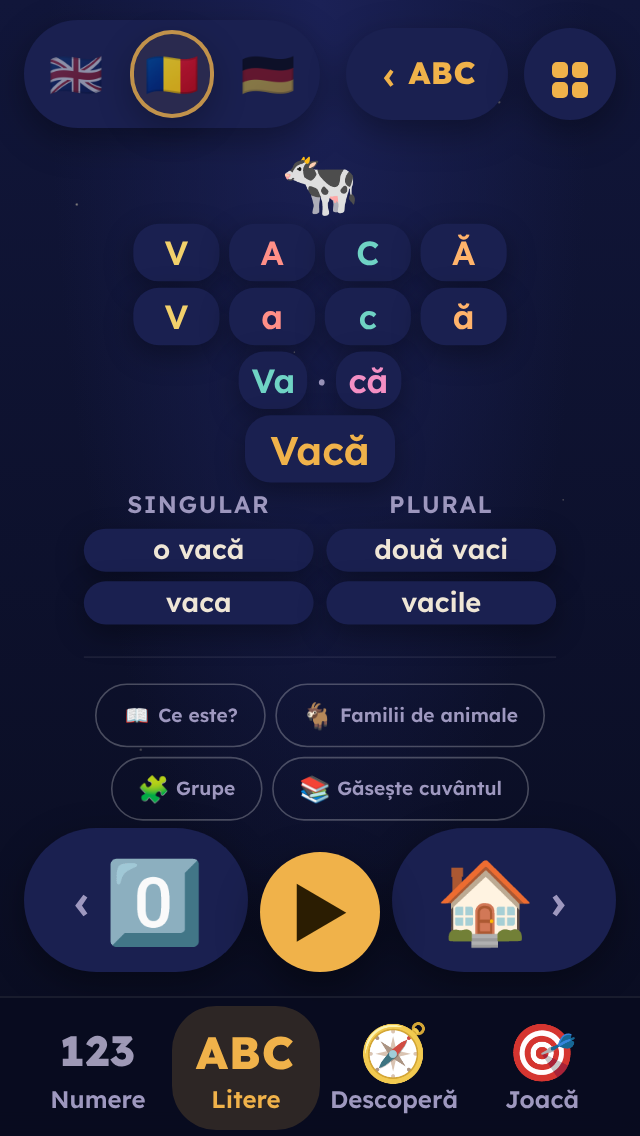
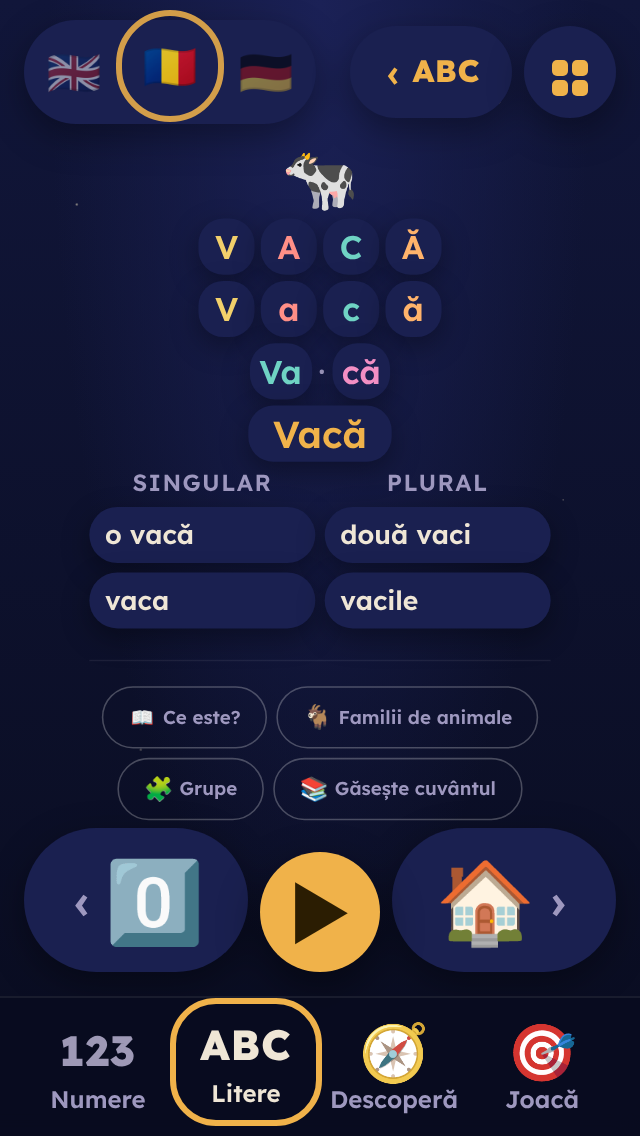
Finish the open items: Read sizes itself with CSS + the shared APP.fitText (no own maths), shows word gaps in phrases and scales tile height; RO compound words get plurals (periuțe/coșuri/ceasuri de…, pui de găină) and the plural rule checks the head word; every concept now has a word in every langu
Claude-Session: https://claude.ai/code/session_01Hyx1q6Z5Q5TBzhN2jqFLjv

diff --git a/abc/core/shell.js b/abc/core/shell.js
@@ -7,7 +7,7 @@ const TILES = Tiles.list();
 const TILE = Object.fromEntries(TILES.map(t => [t.id, t]));
 const PROFILES = Tiles.profiles();
 const PLAY_SECTION = CFG.sections.find(s => s.play).id;
-const GAP = 200, CELEBRATE = { spark: [18, 6], burst: [60, 10] };
+const GAP = 200, CELEBRATE = { spark: [18, 6], burst: [60, 10] }, SWIPE = 50, SEARCH_ROWS = 40, FOCUS_DELAY = 50;
 let seqTok = 0;
 
 for (const v of Object.values(ABC.views)) if (!$(v.el)) {
@@ -32,7 +32,12 @@ const APP = {
   t: (tpl, vars) => I18N.t(tpl, vars, ABC.langs[lang].bcp47),
   icon: k => `<i class="ic" aria-hidden="true">${CFG.icons[k] != null ? esc(CFG.icons[k]) : ABC.art[k] ? `<svg class="art" viewBox="0 0 32 32">${ABC.art[k]}</svg>` : ''}</i>`,
   exclaim: name => APP.t(APP.ui().exclaim, { name }),
-  fitText(el) { let k = 1; el.style.setProperty('--fit', k); for (let i = 0; i < 4 && el.scrollWidth > el.clientWidth + 1; i++) { k *= el.clientWidth / el.scrollWidth; el.style.setProperty('--fit', k.toFixed(3)); } },
+  fitText(el, inner) {
+    const ratio = e => e.scrollWidth > e.clientWidth + 1 ? e.clientWidth / e.scrollWidth : 1;
+    const worst = () => Math.min(ratio(el), ...(inner ? [...el.querySelectorAll(inner)].map(ratio) : []));
+    let k = 1; el.style.setProperty('--fit', k);
+    for (let i = 0; i < 6; i++) { const r = worst(); if (r >= 1) break; k *= r; el.style.setProperty('--fit', k.toFixed(3)); }
+  },
   mt(key, vars) {
     const m = tileOf().module, get = code => key.split('.').reduce((o, k) => o && o[k], m.strings[code]);
     return I18N.t(get(lang) ?? get(CFG.baseLanguage), vars, ABC.langs[lang].bcp47);
@@ -151,12 +156,12 @@ function openTile(id, play, quiet) {
 onTapIn('hub', '.hsearch', openSearch);
 onTapIn('hub', '.ht', b => openTile(b.dataset.id, b.dataset.play === '1'));
 function leaveView() { APP.stop(); if (view() && view().leave) view().leave(); }
-function goHub() { leaveView(); section = sectionNow(); atHub = true; store.set('sec', section); store.set('athub', true); sfx.pop(); render(); speak(APP.exclaim(APP.ui().sections[section]), 80); }
+function goHub() { leaveView(); section = sectionNow(); atHub = true; store.set('sec', section); store.set('athub', true); sfx.pop(); render(); speak(APP.exclaim(APP.ui().sections[section]), PAUSE.tap); }
 function setSection(id) {
   if (id === sectionNow()) { if (!atHub) goHub(); return; }
   leaveView();
   section = id; store.set('sec', id); atHub = true; store.set('athub', true);
-  sfx.pop(); render(); speak(APP.exclaim(APP.ui().sections[id]), 80);
+  sfx.pop(); render(); speak(APP.exclaim(APP.ui().sections[id]), PAUSE.tap);
 }
 
 const VIEWS = Object.values(ABC.views);
@@ -202,7 +207,7 @@ function setLang(code) {
   if (v0 && v0.keepScroll && view() === v0) $(v0.el).scrollTop = scroll;
   announce();
 }
-function announce() { const name = APP.L().name, line = !atHub && view().line && view().line(); speak(line ? APP.t(APP.ui().then, { a: name, b: line }) : APP.exclaim(name), 120); }
+function announce() { const name = APP.L().name, line = !atHub && view().line && view().line(); speak(line ? APP.t(APP.ui().then, { a: name, b: line }) : APP.exclaim(name), PAUSE.line); }
 
 let infoId = null;
 const infoFor = c => c && APP.L().info[c] ? APP.L().info[c] : null;
@@ -210,7 +215,7 @@ function openInfo(c) {
   const I = infoFor(c); if (!I) return;
   infoId = c; $('infotitle').textContent = I.title;
   $('infolist').innerHTML = I.lines.map(([e, t], i) => `<button class="card inf" data-i="${i}"><span class="ie">${e}</span><span>${esc(t)}</span></button>`).join('');
-  $('info').hidden = false; sfx.pop(); speak(I.title, 100);
+  $('info').hidden = false; sfx.pop(); speak(I.title, PAUSE.tap);
 }
 function closeInfo() { if (!$('info').hidden) APP.stop(); $('info').hidden = true; }
 onTapIn(document, '.link[data-t]', b => {
@@ -262,7 +267,7 @@ function openIndex() {
 function syncAZ() {
   const g = $('ixgrid'), hs = g.querySelectorAll('.ixh'); if (!hs.length) return;
   let cur = hs[0];
-  for (const h of hs) { if (h.offsetTop - g.scrollTop <= 28) cur = h; else break; }
+  for (const h of hs) { if (h.offsetTop - g.scrollTop <= $('ixaz').offsetWidth) cur = h; else break; }
   if (g.scrollTop + g.clientHeight >= g.scrollHeight - 2) cur = hs[hs.length - 1];
   const u = cur.id.slice(4);
   $('ixaz').querySelectorAll('.az').forEach(a => { const on = a.dataset.u === u; a.classList.toggle('on', on); if (on) a.setAttribute('aria-current', 'true'); else a.removeAttribute('aria-current'); });
@@ -309,7 +314,7 @@ function runSearch() {
     .sort((a, b) => b.s - a.s || col.compare(a.x.names[0][1], b.x.names[0][1]));
   const groups = new Map();
   for (const h of hits) { const k = h.x.it.concept || fold(h.x.it.name); if (groups.has(k)) groups.get(k).push(h.x); else groups.set(k, [h.x]); }
-  const rows = [...groups.values()].slice(0, 40);
+  const rows = [...groups.values()].slice(0, SEARCH_ROWS);
   $('smeta').textContent = rows.length ? APP.t(U.search.results, { n: rows.length }) : U.search.none;
   const mark = n => { const f = fold(n), i = f.indexOf(q); return i < 0 || f.length !== n.replace(/\//g, '').length ? esc(n) : esc(n.slice(0, i)) + '<mark>' + esc(n.slice(i, i + q.length)) + '</mark>' + esc(n.slice(i + q.length)); };
   $('sres').innerHTML = rows.map(([x, ...more]) => {
@@ -321,7 +326,7 @@ function runSearch() {
 }
 function openSearch() {
   const U = APP.ui(); $('sq').placeholder = U.search.placeholder; $('sq').value = '';
-  $('search').hidden = false; runSearch(); sfx.pop(); setTimeout(() => $('sq').focus(), 50);
+  $('search').hidden = false; runSearch(); sfx.pop(); setTimeout(() => $('sq').focus(), FOCUS_DELAY);
 }
 const closeSearch = () => { $('search').hidden = true; $('sq').blur(); };
 $('sq').addEventListener('input', runSearch);
@@ -339,7 +344,7 @@ $('ages').innerHTML = PROFILES.map(p => { const [a, b] = CFG.profiles[p].ages;
 function setProfile(p) {
   if (!CFG.profiles[p]) return;
   profile = p; store.set('profile', p); atHub = true; store.set('athub', true);
-  sfx.pop(); render(); speak(APP.exclaim(profileName(p)), 80);
+  sfx.pop(); render(); speak(APP.exclaim(profileName(p)), PAUSE.tap);
 }
 
 $('flags').innerHTML = LANGS.map(c => `<button class="seg flag" data-lang="${c}" aria-label="${esc(ABC.langs[c].name)}">${ABC.langs[c].flag}<i class="nv" hidden>${esc(CFG.icons.mute)}</i></button>`).join('');
@@ -368,7 +373,7 @@ $('stage').addEventListener('pointerup', e => {
   const v = view(), start = sx; sx = null;
   if (start == null || !v || !v.swipe) return;
   const dx = e.clientX - start;
-  if (Math.abs(dx) > 50) v.step((dx < 0) !== (APP.L().dir === 'rtl') ? 1 : -1);
+  if (Math.abs(dx) > SWIPE) v.step((dx < 0) !== (APP.L().dir === 'rtl') ? 1 : -1);
 });
 addEventListener('keydown', e => {
   if (e.metaKey || e.ctrlKey || e.altKey || e.isComposing) return;

diff --git a/abc/core/views/read.js b/abc/core/views/read.js
@@ -3,36 +3,29 @@
   function render(sayIt) {
     const L = APP.L(), loc = L.bcp47, A = APP.alphabet(), e = cur(), syl = e.syl, word = e.w, forms = e.forms, pic = e.pic, U = APP.ui();
     const colorOf = u => (u && A.color(u.id)) || 'var(--text)';
-    const parts = I18N.splitUnits(word, A.units, loc).filter(p => /[\p{L}\p{M}]/u.test(p.text));
+    const parts = I18N.splitUnits(word, A.units, loc).filter(p => /[\p{L}\p{M}\s]/u.test(p.text)).filter((p, i, a) => !/\s/.test(p.text) || (i && !/\s/.test(a[i - 1].text)));
+    const gap = '<span class="rgap"></span>';
     const tile = (txt, say, cls = '', color = '') => `<button class="card rt ${cls}" data-say="${esc(say)}"${color ? ` style="color:${color}"` : ''}>${esc(txt)}</button>`;
-    const avail = ($('read').clientWidth || innerWidth) / (+getComputedStyle($('read')).getPropertyValue('--read-split') || 1), nl = parts.length, gap = nl > 8 ? 3 : 6;
-    const tw = Math.min(54, Math.floor((avail - (nl - 1) * gap) / nl));
-    const lstyle = `--tw:${tw}px;--tf:${Math.min(32, Math.round(tw * 0.62))}px;gap:${gap}px`;
     const say = p => p.unit ? A.name(p.unit) : I18N.upper(p.text, null, loc);
-    const upper = parts.map(p => tile(I18N.upper(p.text, p.unit, loc), say(p), 'u', colorOf(p.unit))).join('');
-    const lower = parts.map((p, i) => tile(i === 0 ? I18N.upper(p.text, p.unit, loc) : p.text, say(p), 'l', colorOf(p.unit))).join('');
+    const upper = parts.map(p => /\s/.test(p.text) ? gap : tile(I18N.upper(p.text, p.unit, loc), say(p), 'u', colorOf(p.unit))).join('');
+    const lower = parts.map((p, i) => /\s/.test(p.text) ? gap : tile(i === 0 ? I18N.upper(p.text, p.unit, loc) : p.text, say(p), 'l', colorOf(p.unit))).join('');
     const shown = parts.length ? I18N.upper(parts[0].text, parts[0].unit, loc) + word.slice(parts[0].text.length) : word;
-    const cells = forms ? [...(forms.sg || []), ...(forms.pl || [])] : [];
-    const longest = Math.max(8, ...cells.map(x => x.length));
-    const chipW = (avail - 8) / 2, em = longest * 0.66;
-    const side = Math.floor((chipW - 2 * 26 - 30) / em), tall = side < 15;
-    const cf = Math.max(11, Math.min(20, tall ? Math.floor((chipW - 22) / em) : side));
-    const ns = syl.length, sylFont = Math.max(16, Math.min(32, Math.floor((avail - ns * 20 - (ns - 1) * 22) / Math.max(1, word.length) * 1.55)));
     const syls = syl.map((sy, i) => (i ? `<span class="rsep">${esc(ABC.config.icons.sep)}</span>` : '') + tile(i === 0 ? I18N.capFirst(sy, loc) : sy, sy, 's', CONTENT.palette(i * 3 + 4))).join('');
     $('read').innerHTML =
       `<div class="rcol"><div id="rpic" data-say="${esc(word)}">${pic}</div>` +
-      `<div class="rrow let" id="rU" style="${lstyle}">${upper}</div>` +
-      `<div class="rrow let" id="rL" style="${lstyle}">${lower}</div>` +
-      (syl.length > 1 ? `<div class="rrow syl" id="rS" style="--sf:${sylFont}px">${syls}</div>` : '') +
+      `<div class="rrow let" id="rU">${upper}</div>` +
+      `<div class="rrow let" id="rL">${lower}</div>` +
+      (syl.length > 1 ? `<div class="rrow syl" id="rS">${syls}</div>` : '') +
       `<div class="rrow" id="rW">${tile(shown, word, 'word')}</div></div><div class="rcol">` +
-      (forms ? `<div id="rC" class="${tall ? 'tall' : ''}" style="--cf:${cf}px"><div class="label caps rh">${esc(U.sgpl[0])}</div><div class="label caps rh">${esc(U.sgpl[1])}</div>` +
+      (forms ? `<div id="rC"><div class="label caps rh">${esc(U.sgpl[0])}</div><div class="label caps rh">${esc(U.sgpl[1])}</div>` +
         [0, 1].map(r => [['sg', 1], ['pl', 2]].map(([k, n], c) => forms[k]
           ? `<button class="card rc" data-say="${esc(forms[k][r])}"><span class="rce">${pic.repeat(n)}</span><span>${esc(forms[k][r])}</span></button>`
           : `<div class="rc none">${r === 0 ? esc(APP.t(U.noneLine, { none: U.none[c] })) : ''}</div>`).join('')).join('') + `</div>` : '') +
       `<div class="links"${APP.links(e) ? '' : ' hidden'}>${APP.links(e)}</div></div>`;
+    ['rU', 'rL', 'rS', 'rW', 'rC'].forEach(id => $(id) && APP.fitText($(id), '.rt, .rc'));
     fit();
     APP.shown();
-    if (sayIt) speak(word, 150);
+    if (sayIt) speak(word, PAUSE.line);
   }
   const fit = () => APP.fit($('read'), 'tight');
   onTapIn('read', '[data-say]', el => APP.sequence('read', [{ light: el.classList.contains('rt') || el.classList.contains('rc') ? el : null, say: el.dataset.say, pop: true }]));

diff --git a/abc.html b/abc.html
@@ -37,7 +37,7 @@
   --cnum-w:96px; --cdig:54px; --cword:var(--fs-m); --citems:34px; --citems-min:60px; --hand-w:84px; --hand-h:96px; --row:5;
   --tap:44px; --badge:28px; --tab-w:120px; --icon-m:28px; --learn-gap:1.6vh; --dot:40px; --swatch:min(30vh,52vw); --rainbow:min(44vh,80vw);
   --word-fs:min(6vh,8vw); --pics-fs:min(7vh,9vw); --ask-fs:min(5.5vh,7.5vw); --choice-gap:min(4vw,4vh); --bub-c:var(--card2); --bub-2:min(28vh,40vw); --bub-3:min(25vh,28vw); --bub-4:min(21vh,21vw); --n4-display:flex;
-  --rt-w:54px; --rt-min:34px; --rt-h-tight:36px; --rt-fs-tight:21px; --rpic-tight:7vh; --syl-pad:min(16px,2.4vw); --ix-w:76px; --ix-h:84px; --srp:56px;
+  --rt-w:1.7em; --rt-h-tight:36px; --rt-fs-tight:21px; --rpic-tight:7vh; --syl-pad:.3em; --rt-gap:.2em; --word-gap:.5em; --ix-w:76px; --ix-h:84px; --srp:56px;
   --shadow-text:0 6px 0 var(--shade); --shadow-inset:inset 0 -8px 0 rgba(0,0,0,.12); --shadow-drop:0 3px 0 rgba(0,0,0,.3);
   --inf-fs:var(--fs-m); --inf-pad:12px 16px; --inf-pic:36px; --play-gap:clamp(16px, 7vh, 72px);
 }
@@ -196,23 +196,19 @@ body.lownav #stage{padding-bottom:calc(var(--bot) + var(--low-h))} #hub{display:
 #read{display:flex;flex-direction:var(--read-dir);align-items:center;justify-content:center;width:100%;height:100%;gap:var(--read-gap)}
 .rcol{display:flex;flex-direction:column;align-items:center;justify-content:center;gap:var(--read-gap);flex:1 1 0;min-width:0;width:100%}
 #read.tight{--rt-h:var(--rt-h-tight);--rt-fs:var(--rt-fs-tight);--rc-h:var(--rt-h-tight);--rpic:var(--rpic-tight);--read-gap:var(--sp-1)} #rpic{font-size:var(--rpic);line-height:1.1;cursor:pointer}
-.rrow{display:flex;flex-wrap:nowrap;justify-content:center;gap:var(--sp-2);max-width:100%}
-.rt{flex:0 1 var(--rt-w);min-width:var(--rt-min);height:var(--rt-h);border-radius:var(--r-sm);font-size:var(--rt-fs);font-weight:600;
+.rrow{display:flex;flex-wrap:nowrap;justify-content:center;gap:var(--rt-gap);max-width:100%;font-size:calc(var(--rt-fs) * var(--fit,1))}
+.rt{flex:0 0 auto;min-width:var(--rt-w);padding:0 var(--syl-pad);height:calc(var(--rt-h) * var(--fit,1));border-radius:var(--r-sm);font-size:1em;font-weight:600;white-space:nowrap;
   box-shadow:var(--shadow);,box-shadow .15s}
-.rrow.let .rt{flex:0 0 var(--tw,var(--rt-w));width:var(--tw,var(--rt-w));min-width:0;font-size:min(var(--tf,var(--rt-fs)),var(--rt-fs))}
-.rrow.syl{flex-wrap:wrap;row-gap:var(--sp-1)}
-.rrow.syl .rt{flex:0 1 auto;min-width:0;padding:0 var(--syl-pad);font-size:min(var(--sf,var(--rt-fs)),var(--rt-fs))}
-.rt.word{flex:0 0 auto;height:calc(var(--rt-h) + var(--sp-2));padding:0 var(--sp-4);font-size:calc(var(--rt-fs) + var(--sp-1));color:var(--amber)}
+.rt.word{padding:0 var(--sp-4);font-size:1.15em;color:var(--amber)}
+.rgap{flex:0 0 var(--word-gap)}
 .rsep{align-self:center;color:var(--muted);font-size:var(--rce)}
-#rC{display:grid;grid-template-columns:1fr 1fr;gap:var(--sp-2);width:100%}
+#rC{display:grid;grid-template-columns:repeat(2,minmax(0,1fr));gap:var(--sp-2);width:100%;font-size:calc(var(--rc-fs) * var(--fit,1))}
 .rh{text-align:center}
 .rc{display:flex;align-items:center;justify-content:flex-start;gap:var(--sp-2);min-width:0;overflow:hidden;height:var(--rc-h);padding:0 var(--sp-4) 0 var(--sp-3);
-  border-radius:var(--r-pill);font-size:min(var(--cf,var(--rc-fs)),var(--rc-fs));font-weight:600;white-space:nowrap;
+  border-radius:var(--r-pill);font-size:1em;font-weight:600;white-space:nowrap;
   box-shadow:var(--shadow);,box-shadow .15s}
 .rce{font-size:var(--rce);letter-spacing:-2px}
 #read.tight .rce{display:none}
-#rC.tall .rc{flex-direction:column;justify-content:center;height:auto;padding:var(--sp-1) var(--sp-2);gap:0;border-radius:var(--r-sm);white-space:normal;text-align:center;line-height:1.1}
-#rC.tall .rce{font-size:var(--fs-m)}
 .rc.none{background:transparent;box-shadow:inset 0 0 0 2px var(--line);color:var(--muted);font-size:var(--fs-xs);justify-content:center;cursor:default;white-space:normal;text-align:center;line-height:1.1;padding:0 var(--sp-2)}
 #act{position:fixed;left:0;right:0;margin:0 auto;bottom:calc(var(--bot) + var(--nav-gap));z-index:var(--z-float)}
 

diff --git a/abc/core/views/play.js b/abc/core/views/play.js
@@ -3,7 +3,8 @@
   const game = () => ABC.games[APP.tile().game.type];
   const wk = it => `${APP.tile().id}:${it.id}`;
   const weights = store.get('w', {});
-  const nChoices = () => APP.streak >= 8 ? 4 : APP.streak >= 3 ? 3 : 2;
+  const RULES = { levels: [[8, 4], [3, 3], [0, 2]], maxWeight: 5, cooldown: 700, bigEvery: 10, next: 1200, nextBig: 2400, settle: 350 };
+  const nChoices = () => RULES.levels.find(([s]) => APP.streak >= s)[1];
   const look = it => it.bubbleArt || it.bubble || it.bubbleColor;
   const pool = () => game().pool(APP.gameItems(), APP.streak);
   const fits = (it, t, os) => (!t.among || it.among === t.among) && !os.some(o => o === it || (o.sound && o.sound === it.sound) || look(o) === look(it));
@@ -45,30 +46,30 @@
     });
     $('plinks').innerHTML = APP.links(target); $('plinks').hidden = !$('plinks').innerHTML;
     APP.fit($('play'));
-    speak(askLine(), 250);
+    speak(askLine(), PAUSE.ask);
   }
   function choose(it, el) {
     if (locked) return;
-    if (it !== target && el) { const now = Date.now(); if (+(el.dataset.cool || 0) > now) return; el.dataset.cool = now + 700; }
+    if (it !== target && el) { const now = Date.now(); if (+(el.dataset.cool || 0) > now) return; el.dataset.cool = now + RULES.cooldown; }
     const U = APP.ui();
     if (it === target) {
       locked = true; APP.streak++; APP.addStar();
       weights[wk(it)] = Math.max(0, (weights[wk(it)] || 0) - 1); store.set('w', weights);
       if (el) el.classList.add('right');
-      const big = APP.stars % 10 === 0;
+      const big = APP.stars % RULES.bigEvery === 0;
       let said;
       if (big) {
         APP.celebrate(el, true); sfx.fanfare();
-        said = speak(APP.t(U.wow, { n: APP.stars }), 700);
-      } else { APP.celebrate(el, true); said = speak(APP.t(U.cheer, { cheer: U.cheers[Math.random() * U.cheers.length | 0], name: target.name }), 400); }
+        said = speak(APP.t(U.wow, { n: APP.stars }), PAUSE.praise);
+      } else { APP.celebrate(el, true); said = speak(APP.t(U.cheer, { cheer: U.cheers[Math.random() * U.cheers.length | 0], name: target.name }), PAUSE.answer); }
       const tok = ++roundTok;
-      Promise.all([said, wait(big ? 2400 : 1200)]).then(() => wait(350)).then(() => { if (tok === roundTok && APP.screen() === 'play' && locked) newRound(); });
+      Promise.all([said, wait(big ? RULES.nextBig : RULES.next)]).then(() => wait(RULES.settle)).then(() => { if (tok === roundTok && APP.screen() === 'play' && locked) newRound(); });
     } else {
       APP.streak = 0;
-      if (!round.missed) { round.missed = true; weights[wk(target)] = Math.min(5, (weights[wk(target)] || 0) + 1); store.set('w', weights); }
+      if (!round.missed) { round.missed = true; weights[wk(target)] = Math.min(RULES.maxWeight, (weights[wk(target)] || 0) + 1); store.set('w', weights); }
       sfx.wrong();
       if (el) { el.classList.remove('wrong'); void el.offsetWidth; el.classList.add('wrong'); }
-      speak(APP.t(U.wrong, { thats: APP.t(U.thats, it.thats), ask: askLine() }), 350);
+      speak(APP.t(U.wrong, { thats: APP.t(U.thats, it.thats), ask: askLine() }), PAUSE.answer);
     }
   }
   onTap('ask', () => { if (target) speak(askLine()); });

diff --git a/abc/lang/ro/words.js b/abc/lang/ro/words.js
@@ -23,7 +23,7 @@ w('elephant', { w: 'e/le/fant', def: 'elefantul', pl: 'elefanți', g: 'm', plDef
 w('horse', { w: 'cal', def: 'calul', pl: 'cai', g: 'm', plDef: 'caii' });
 w('dolphin', { w: 'del/fin', def: 'delfinul', pl: 'delfini', g: 'm', plDef: 'delfinii' });
 w('butterfly', { w: 'flu/tu/re', def: 'fluturele', pl: 'fluturi', g: 'm', plDef: 'fluturii' });
-w('bin', { w: 'coș de gu/noi', def: 'coșul de gunoi', g: 'n' });
+w('bin', { w: 'coș de gu/noi', def: 'coșul de gunoi', pl: 'coșuri de gunoi', g: 'n', plDef: 'coșurile de gunoi' });
 w('hippo', { w: 'hi/po/po/tam', def: 'hipopotamul', pl: 'hipopotami', g: 'm', plDef: 'hipopotamii' });
 w('ice-cream', { w: 'în/ghe/ța/tă', def: 'înghețata', pl: 'înghețate', g: 'f', plDef: 'înghețatele' });
 w('juice', { w: 'suc', def: 'sucul', pl: 'sucuri', g: 'n', plDef: 'sucurile' });
@@ -179,7 +179,7 @@ w('sunglasses', { w: 'o/che/lari de soa/re', plOnly: true, plDef: 'ochelarii de 
 w('boots', { w: 'ciz/mă', def: 'cizma', pl: 'cizme', g: 'f', plDef: 'cizmele', also: 'ghete, bocanci' });
 w('gloves', { w: 'mă/nuși', plOnly: true, plDef: 'mănușile' });
 w('scarf', { w: 'fu/lar', def: 'fularul', pl: 'fulare', g: 'n', plDef: 'fularele' });
-w('chicken-chick', { w: 'pui de gă/i/nă', def: 'puiul de găină', g: 'm', ex: false });
+w('chicken-chick', { w: 'pui de gă/i/nă', def: 'puiul de găină', pl: 'pui de găină', g: 'm', plDef: 'puii de găină', ex: false });
 w('circle', { w: 'cerc', def: 'cercul', pl: 'cercuri', g: 'n', plDef: 'cercurile' });
 w('square', { w: 'pă/trat', def: 'pătratul', pl: 'pătrate', g: 'n', plDef: 'pătratele' });
 w('triangle', { w: 'tri/un/ghi', def: 'triunghiul', pl: 'triunghiuri', g: 'n', plDef: 'triunghiurile' });
@@ -225,14 +225,15 @@ w('uranus', { w: 'U/ra/nus', ex: false });
 w('neptune', { w: 'Nep/tun', ex: false });
 w('germ', { w: 'mi/crob', def: 'microbul', pl: 'microbi', g: 'm', plDef: 'microbii' });
 w('soap', { w: 'să/pun', def: 'săpunul', pl: 'săpunuri', g: 'n', plDef: 'săpunurile' });
-w('toothbrush', { w: 'pe/ri/u/ță de dinți', def: 'periuța de dinți', g: 'f' });
+w('toothbrush', { w: 'pe/ri/u/ță de dinți', def: 'periuța de dinți', pl: 'periuțe de dinți', g: 'f', plDef: 'periuțele de dinți' });
 w('water', { w: 'a/pă', def: 'apa', g: 'f', mass: true });
 w('blood', { w: 'sân/ge', def: 'sângele', g: 'n', mass: true });
 w('fever', { w: 'fe/bră', def: 'febra', g: 'f', mass: true });
 w('vaccine', { w: 'vac/cin', def: 'vaccinul', pl: 'vaccinuri', g: 'n', plDef: 'vaccinurile' });
 w('bandage', { w: 'plas/tu/re', def: 'plasturele', pl: 'plasturi', g: 'm', plDef: 'plasturii' });
 w('van', { w: 'du/bă', def: 'duba', pl: 'dube', g: 'f', plDef: 'dubele' });
-w('watch', { w: 'ceas de mâ/nă', def: 'ceasul de mână', g: 'n' });
+w('watch', { w: 'ceas de mâ/nă', def: 'ceasul de mână', pl: 'ceasuri de mână', g: 'n', plDef: 'ceasurile de mână' });
 w('up', { w: 'sus' });
 w('zero', { w: 'ze/ro', def: 'zeroul', pl: 'zerouri', g: 'n', plDef: 'zerourile' });
+w('ufo', { w: 'OZN', ex: false });
 }

diff --git a/abc/modules/colors/module.js b/abc/modules/colors/module.js
@@ -1,14 +1,16 @@
 {
+const HEX = { red: '#e53935', orange: '#fb8c00', yellow: '#fdd835', green: '#43a047', blue: '#1e88e5', indigo: '#3949ab', purple: '#8e24aa',
+  pink: '#f48fb1', brown: '#8d6e63', black: '#111111', white: '#f5f5f5' };
 const COLOR_DATA = [
-  { id: 'red', hex: '#e53935', things: 'apple strawberry tomato cherry' }, { id: 'blue', hex: '#1e88e5', things: 'whale dolphin butterfly jeans' },
-  { id: 'yellow', hex: '#fdd835', things: 'banana lemon chick sun' }, { id: 'green', hex: '#43a047', things: 'cucumber frog leaf grass' },
-  { id: 'orange', concept: 'orange-colour', hex: '#fb8c00', things: 'orange pumpkin fox' }, { id: 'purple', hex: '#8e24aa', things: 'grape umbrella' },
-  { id: 'pink', hex: '#f48fb1', things: 'pig flower donut' }, { id: 'brown', hex: '#8d6e63', things: 'bear horse teddy hedgehog' },
-  { id: 'black', hex: '#111111', things: 'hat penguin' }, { id: 'white', hex: '#f5f5f5', things: 'sheep cloud egg milk' },
+  { id: 'red', things: 'apple strawberry tomato cherry' }, { id: 'blue', things: 'whale dolphin butterfly jeans' },
+  { id: 'yellow', things: 'banana lemon chick sun' }, { id: 'green', things: 'cucumber frog leaf grass' },
+  { id: 'orange', concept: 'orange-colour', things: 'orange pumpkin fox' }, { id: 'purple', things: 'grape umbrella' },
+  { id: 'pink', things: 'pig flower donut' }, { id: 'brown', things: 'bear horse teddy hedgehog' },
+  { id: 'black', things: 'hat penguin' }, { id: 'white', things: 'sheep cloud egg milk' },
   { id: 'rainbow', concept: 'rainbow', things: 'sun cloud umbrella', noPlay: true, bands: true }
-];
-const RAINBOW_HEX = ['#e53935', '#fb8c00', '#fdd835', '#43a047', '#1e88e5', '#3949ab', '#8e24aa'];
-const RAINBOW_DOT = 'conic-gradient(#e53935,#fb8c00,#fdd835,#43a047,#1e88e5,#3949ab,#8e24aa,#e53935)';
+].map(c => Object.assign({ hex: HEX[c.id] }, c));
+const RAINBOW_HEX = ['red', 'orange', 'yellow', 'green', 'blue', 'indigo', 'purple'].map(k => HEX[k]);
+const RAINBOW_DOT = `conic-gradient(${[...RAINBOW_HEX, RAINBOW_HEX[0]].join(',')})`;
 function rainbowSVG() {
   return `<svg class="rbsvg" viewBox="0 0 200 104">${RAINBOW_HEX.map((c, i) => { const r = 92 - i * 10;
     return `<path class="part rbb" data-part="${i}" d="M ${100 - r} 100 A ${r} ${r} 0 0 1 ${100 + r} 100" stroke="${c}"/>`; }).join('')}</svg>`;

diff --git a/abc/art.js b/abc/art.js
@@ -15,3 +15,18 @@ ART('jupiter', '<circle cx="16" cy="16" r="14.5" fill="#d8a46c" stroke="#1d2150"
 ART('saturn', '<ellipse cx="16" cy="16" rx="15.5" ry="4.6" fill="none" stroke="#1d2150" stroke-width="3.4"/><ellipse cx="16" cy="16" rx="15.5" ry="4.6" fill="none" stroke="#c9b07a" stroke-width="2"/><circle cx="16" cy="16" r="9" fill="#e3c27a" stroke="#1d2150" stroke-width="1.4"/><path d="M7.4 13.5h17.2M7 17.5h18" stroke="#cfa95f" stroke-width="1.4"/><path d="M1 16.4a15.5 4.6 0 0 0 30 0" fill="none" stroke="#c9b07a" stroke-width="2"/>');
 ART('uranus', '<circle cx="16" cy="16" r="11" fill="#8fd3df" stroke="#1d2150" stroke-width="1.4"/><ellipse cx="16" cy="16" rx="3" ry="14" fill="none" stroke="#bfeaf0" stroke-width="1.4"/>');
 ART('neptune', '<circle cx="16" cy="16" r="11" fill="#4f6fd8" stroke="#1d2150" stroke-width="1.4"/><path d="M7 12q9-2 18 0M6 19q10 2 20 0" stroke="#3c58b5" stroke-width="1.6" fill="none"/><ellipse cx="12" cy="15" rx="2.4" ry="1.4" fill="#2c428e"/>');
+{
+  const SKIN = '#f8d2ae', SHADE = '#e7b088', NAIL = '#fde7d6', ORDER = ['index', 'middle', 'ring', 'little', 'thumb'];
+  const FING = { little: { x: 13, w: 13, top: 34 }, ring: { x: 28, w: 14, top: 18 }, middle: { x: 44, w: 14, top: 10 }, index: { x: 60, w: 14, top: 18 } };
+  for (let raised = 0; raised <= 5; raised++) {
+    const up = new Set(ORDER.slice(0, raised)); let g = '';
+    for (const [name, f] of Object.entries(FING)) g += up.has(name)
+      ? `<rect x="${f.x}" y="${f.top}" width="${f.w}" height="${80 - f.top}" rx="${f.w / 2}" fill="${SKIN}"/><ellipse cx="${f.x + f.w / 2}" cy="${f.top + 7}" rx="${f.w * 0.3}" ry="4.5" fill="${NAIL}"/>`
+      : `<rect x="${f.x}" y="48" width="${f.w}" height="24" rx="${f.w / 2}" fill="${SHADE}"/>`;
+    g += `<rect x="10" y="54" width="68" height="58" rx="22" fill="${SKIN}"/>`;
+    g += up.has('thumb')
+      ? `<rect x="68" y="50" width="16" height="44" rx="8" fill="${SKIN}" transform="rotate(32 76 92)"/><ellipse cx="76" cy="57" rx="4.5" ry="4" fill="${NAIL}" transform="rotate(32 76 92)"/>`
+      : `<rect x="34" y="76" width="42" height="15" rx="7.5" fill="${SHADE}"/>`;
+    ART('hand-' + raised, `<g transform="scale(0.2667) translate(7 0)">${g}</g>`);
+  }
+}

diff --git a/abc/core/views/count.js b/abc/core/views/count.js
@@ -1,20 +1,7 @@
 (function () {
   let style = store.get('cstyle', 'obj');
   const BEAT = 700;
-  const SKIN = '#f8d2ae', SHADE = '#e7b088', NAIL = '#fde7d6';
-  const FING = { little: { x: 13, w: 13, top: 34 }, ring: { x: 28, w: 14, top: 18 }, middle: { x: 44, w: 14, top: 10 }, index: { x: 60, w: 14, top: 18 } };
-  const ORDER = ['index', 'middle', 'ring', 'little', 'thumb'];
-  function hand(raised, right) {
-    const up = new Set(ORDER.slice(0, raised)); let g = '';
-    for (const [name, f] of Object.entries(FING)) g += up.has(name)
-      ? `<rect x="${f.x}" y="${f.top}" width="${f.w}" height="${80 - f.top}" rx="${f.w / 2}" fill="${SKIN}"/><ellipse cx="${f.x + f.w / 2}" cy="${f.top + 7}" rx="${f.w * 0.3}" ry="4.5" fill="${NAIL}"/>`
-      : `<rect x="${f.x}" y="48" width="${f.w}" height="24" rx="${f.w / 2}" fill="${SHADE}"/>`;
-    g += `<rect x="10" y="54" width="68" height="58" rx="22" fill="${SKIN}"/>`;
-    g += up.has('thumb')
-      ? `<rect x="68" y="50" width="16" height="44" rx="8" fill="${SKIN}" transform="rotate(32 76 92)"/><ellipse cx="76" cy="57" rx="4.5" ry="4" fill="${NAIL}" transform="rotate(32 76 92)"/>`
-      : `<rect x="34" y="76" width="42" height="15" rx="7.5" fill="${SHADE}"/>`;
-    return `<svg class="hand" viewBox="0 0 106 120" aria-label="${esc(APP.ui().aria[right ? 'rightHand' : 'leftHand'])}"><g${right ? ' transform="translate(106 0) scale(-1 1)"' : ''}>${g}</g></svg>`;
-  }
+  const hand = (raised, right) => `<svg class="hand" viewBox="0 0 32 32" aria-label="${esc(APP.ui().aria[right ? 'rightHand' : 'leftHand'])}"><g${right ? ' transform="translate(32 0) scale(-1 1)"' : ''}>${ABC.art['hand-' + raised]}</g></svg>`;
   const item = n => APP.items().find(it => it.n === n);
   function render() {
     const list = APP.items();

diff --git a/abc/core/services.js b/abc/core/services.js
@@ -6,6 +6,7 @@ function onTapIn(root, sel, fn) {
   r.addEventListener('click', e => { const b = e.target.closest && e.target.closest(sel); if (!b) return; e.stopPropagation(); fn(b, e); }, true);
 }
 const wait = ms => new Promise(r => setTimeout(r, ms));
+const PAUSE = { tap: 80, line: 120, ask: 250, answer: 350, praise: 700 }, TALK = { base: 2000, perChar: 160, silent: 400 };
 const shuffle = a => { for (let i = a.length - 1; i > 0; i--) { const j = Math.random() * (i + 1) | 0; [a[i], a[j]] = [a[j], a[i]]; } return a; };
 
 const store = {
@@ -66,11 +67,11 @@ function makeUtt(text, rate, onDone) {
   let fallback;
   const fin = () => { clearTimeout(fallback); liveUtts.delete(u); onDone && onDone(); };
   u.onend = u.onerror = fin;
-  fallback = setTimeout(fin, 2000 + I18N.graphemes(text, SPEECH.bcp47).length * 160);
+  fallback = setTimeout(fin, TALK.base + I18N.graphemes(text, SPEECH.bcp47).length * TALK.perChar);
   return u;
 }
 function speak(text, delay = 0) {
-  if (!('speechSynthesis' in window) || SPEECH.noVoice) return wait(400 + delay);
+  if (!('speechSynthesis' in window) || SPEECH.noVoice) return wait(TALK.silent + delay);
   speechSynthesis.cancel(); clearTimeout(speakTimer);
   if (speakDone) speakDone();
   return new Promise(res => {

diff --git a/tools/check.js b/tools/check.js
@@ -116,7 +116,7 @@ for (const c of langs) {
     try { L.forms(e, w); } catch (x) { err(`${c}/words.js ${e.id}: forms → ${x.message}`); }
     if (L.checkForms) { const m = L.checkForms(e); if (m) warn(`${c}/words.js ${e.id}: ${m}`); }
     const key = w.toLocaleLowerCase(L.bcp47);
-    if (seenW.has(key)) err(`${c}/words.js: "${w}" is used for two concepts (${seenW.get(key)}, ${e.id}) — add a note or pick another word`);
+    if (seenW.has(key) && !(e.homonym && e.homonym === seenW.get(key))) err(`${c}/words.js: "${w}" is used for two concepts (${seenW.get(key)}, ${e.id}) — add a note or pick another word`);
     seenW.set(key, e.id);
     for (const a of (e.also || '').split(',').map(s => s.trim().toLocaleLowerCase(L.bcp47)).filter(Boolean)) { if (seenW.has(a) && seenW.get(a) !== e.id) err(`${c}/words.js ${e.id}: synonym "${a}" is the word of ${seenW.get(a)}`); }
   }

diff --git a/abc/lang/ro/grammar.js b/abc/lang/ro/grammar.js
@@ -17,5 +17,5 @@ LANG('ro', {
     const sg = [e.mass ? w : `${e.g === 'f' ? 'o' : 'un'} ${w}`, e.def];
     return { sg, pl: e.pl ? [`${e.g === 'm' ? 'doi' : 'două'} ${e.pl}`, e.plDef] : null };
   },
-  checkForms(e) { return e.pl && e.plDef !== e.pl + (e.g === 'm' ? 'i' : 'le') ? `plDef "${e.plDef}" ≠ regula (${e.pl + (e.g === 'm' ? 'i' : 'le')})` : null; }
+  checkForms(e) { if (!e.pl || e.pl === e.w.replace(/\//g, '')) return null; const [h, ...rest] = e.pl.split(' '), want = [h + (e.g === 'm' ? 'i' : 'le'), ...rest].join(' '); return e.plDef !== want ? `plDef "${e.plDef}" ≠ regula (${want})` : null; }
 });

diff --git a/abc/lang/en/words.js b/abc/lang/en/words.js
@@ -232,4 +232,8 @@ w('blood', { w: 'blood', mass: true });
 w('fever', { w: 'fe/ver', art: 'a', pl: 'fevers' });
 w('vaccine', { w: 'vac/cine', art: 'a', pl: 'vaccines' });
 w('bandage', { w: 'plas/ter', art: 'a', pl: 'plasters' });
+w('wifi', { w: 'wi/fi', mass: true, ex: false });
+w('wheat-ear', { w: 'ear of wheat', art: 'an', pl: 'ears of wheat' });
+w('ufo', { w: 'U/FO', art: 'a', pl: 'UFOs', ex: false });
+w('orange-colour', { w: 'or/ange', homonym: 'orange' });
 }
